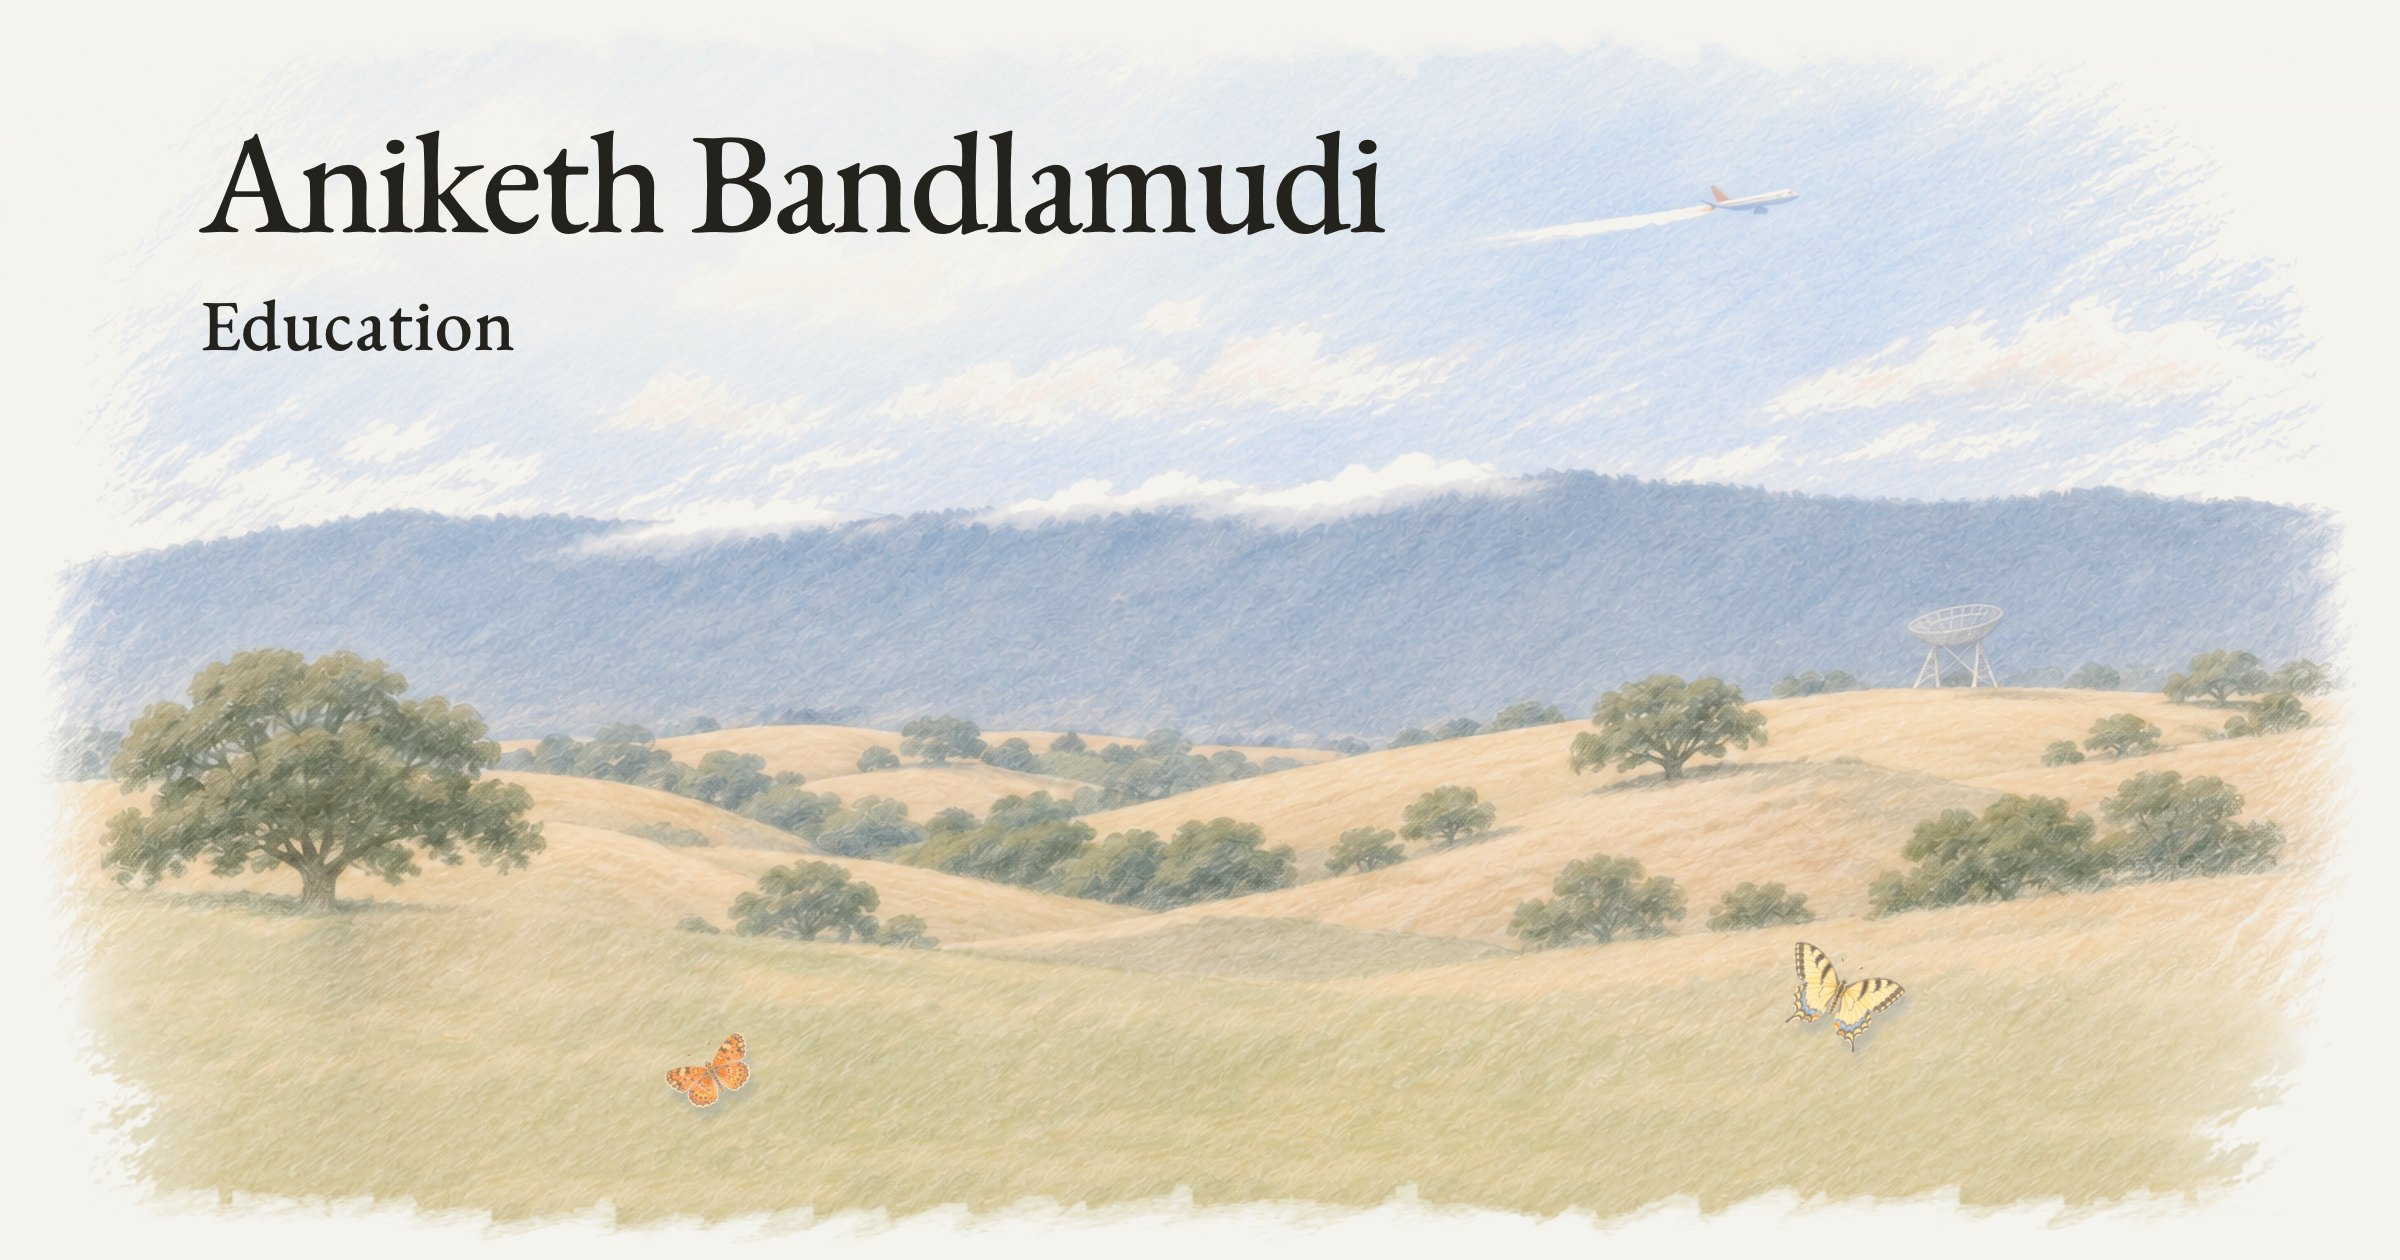
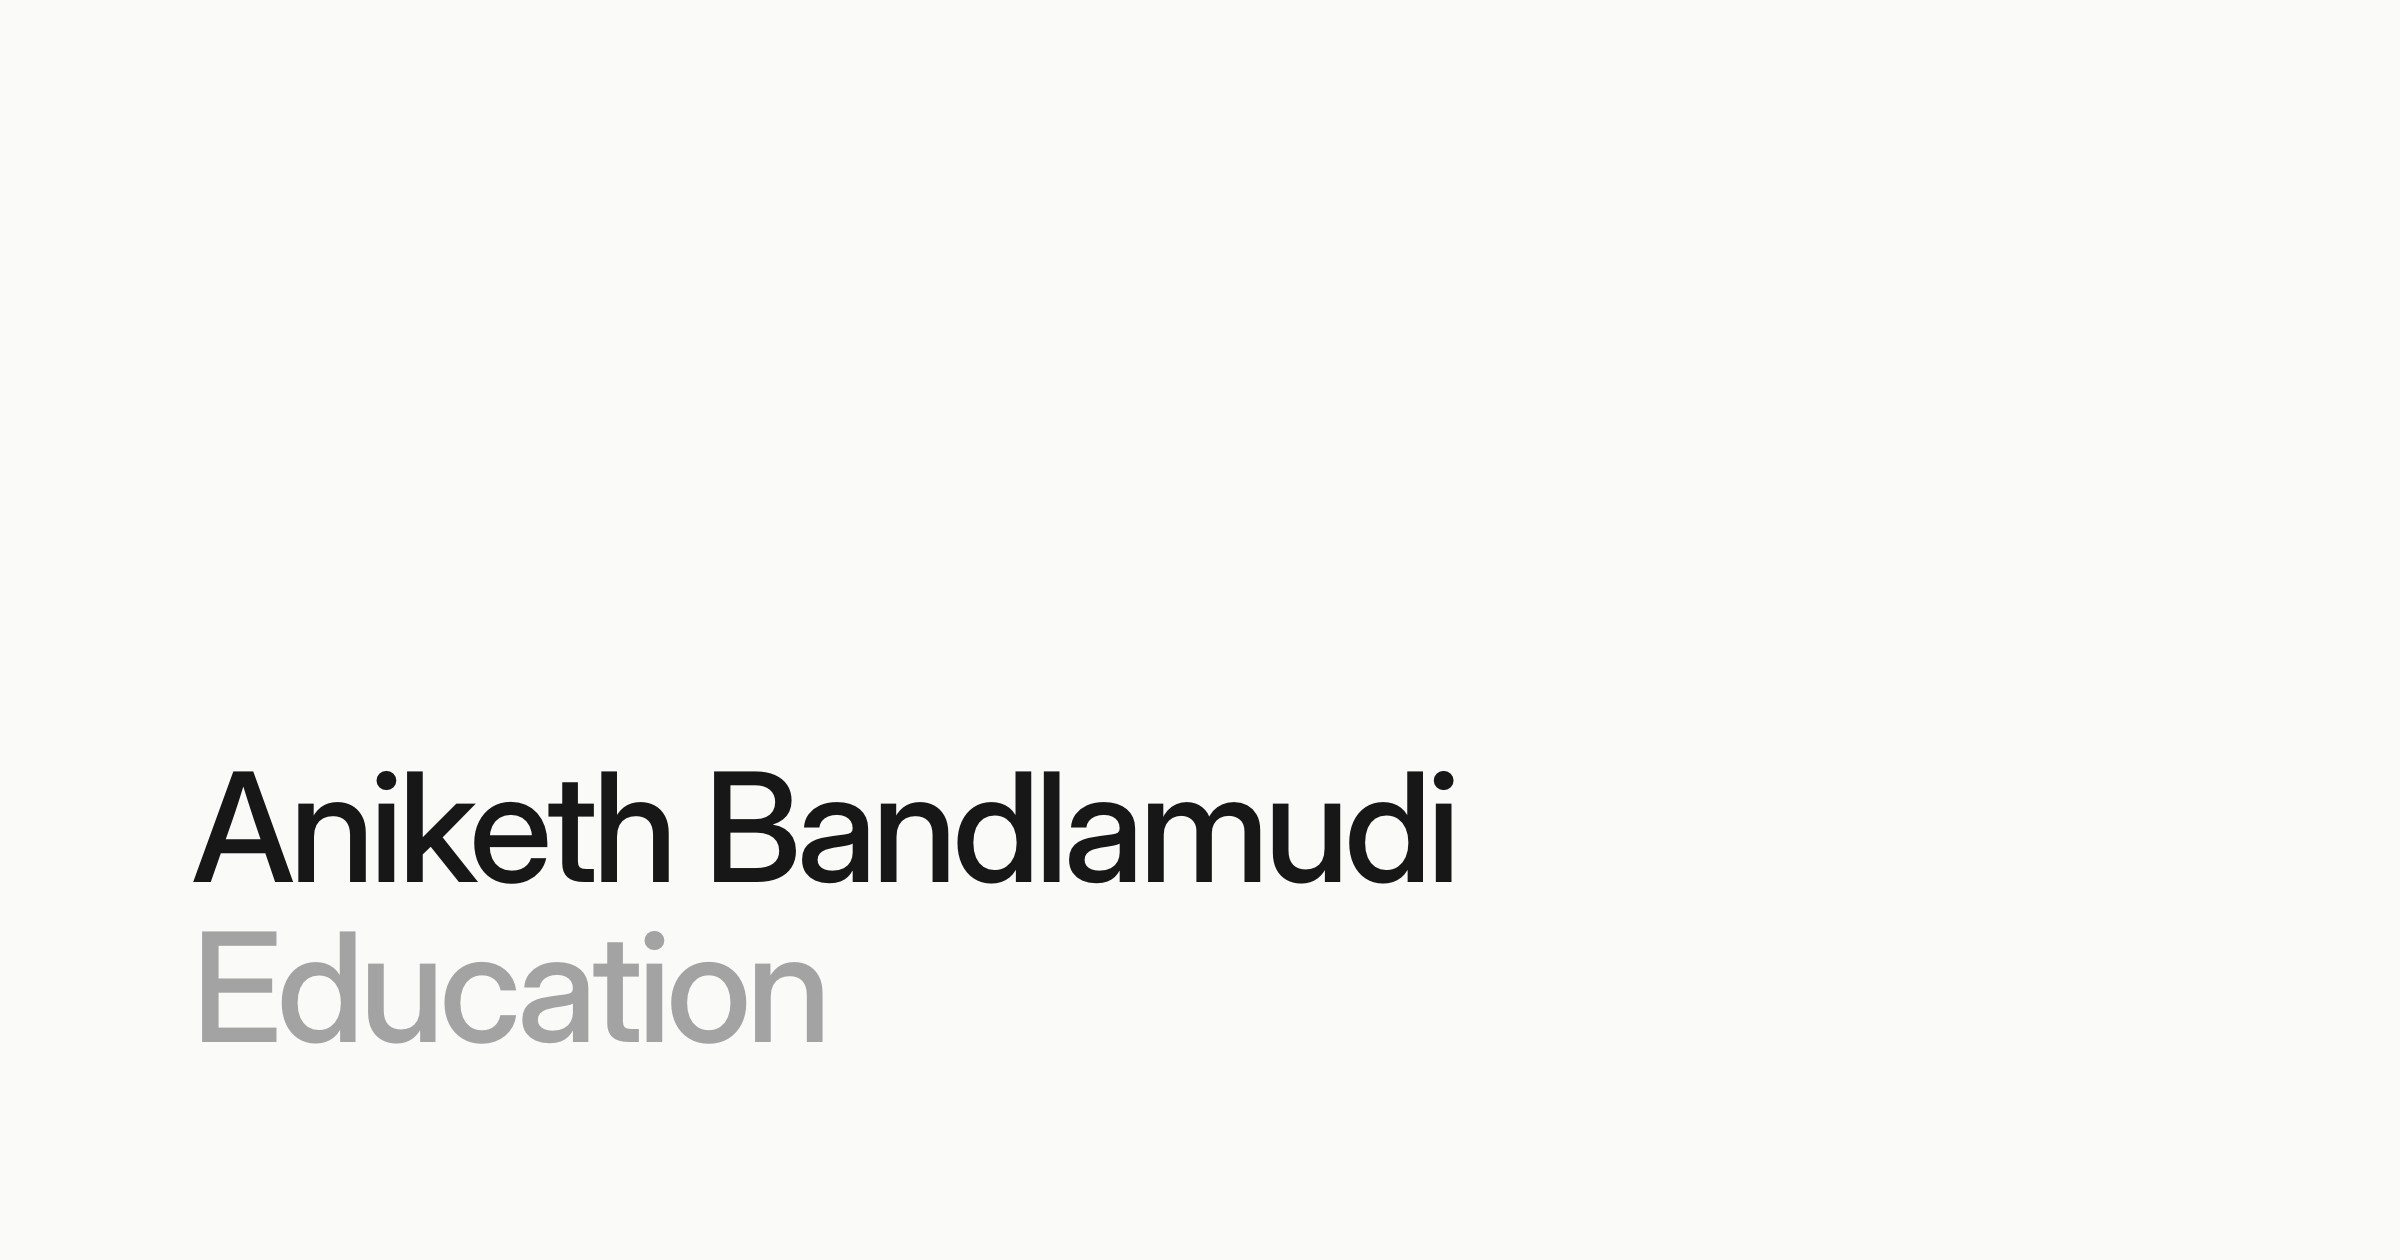
Share cards in the quiet look
The link-preview cards are the site's header in large on its paper:
the name in ink, and on a page's card the page's name under it in
grey, in Inter. No drawing. Their descriptions no longer mention the
pencil drawing, and the card links carry ?v=2 so sites that cached the
old cards fetch the new ones.

diff --git a/index.html b/index.html
@@ -20,16 +20,16 @@
   <meta property="og:title" content="Aniketh Bandlamudi">
   <meta property="og:description" content="Aniketh Bandlamudi is a CS and Applied Math student at the University of Virginia, founder of Pragmatic, the system of record for AI agents, and OCRadar, and maker of the Haze weather app.">
   <meta property="og:url" content="https://aniketh.net/">
-  <meta property="og:image" content="https://aniketh.net/assets/img/og.jpg">
+  <meta property="og:image" content="https://aniketh.net/assets/img/og.jpg?v=2">
   <meta property="og:image:width" content="2400">
   <meta property="og:image:height" content="1260">
-  <meta property="og:image:alt" content="Aniketh Bandlamudi, over a coloured-pencil drawing of golden foothills">
+  <meta property="og:image:alt" content="Aniketh Bandlamudi">
 
   <!-- Twitter Card -->
   <meta name="twitter:card" content="summary_large_image">
   <meta name="twitter:title" content="Aniketh Bandlamudi">
   <meta name="twitter:description" content="Aniketh Bandlamudi is a CS and Applied Math student at the University of Virginia, founder of Pragmatic, the system of record for AI agents, and OCRadar, and maker of the Haze weather app.">
-  <meta name="twitter:image" content="https://aniketh.net/assets/img/og.jpg">
+  <meta name="twitter:image" content="https://aniketh.net/assets/img/og.jpg?v=2">
   <link rel="preload" href="/assets/fonts/lagunita/Lagunita-latin.woff2" as="font" type="font/woff2" crossorigin>
   <link rel="stylesheet" href="/assets/fonts/lagunita/lagunita.css">
   <link rel="stylesheet" href="/assets/css/site.css">

diff --git a/press/index.html b/press/index.html
@@ -14,14 +14,14 @@
   <meta property="og:title" content="Press | Aniketh Bandlamudi">
   <meta property="og:description" content="Press coverage of Aniketh Bandlamudi and OCRadar in WTOP News, The Korea Times, Vision Times, Virginia News Network and FCPS, and recognition of his aviation photography.">
   <meta property="og:url" content="https://aniketh.net/press/">
-  <meta property="og:image" content="https://aniketh.net/assets/img/og/press.jpg">
+  <meta property="og:image" content="https://aniketh.net/assets/img/og/press.jpg?v=2">
   <meta property="og:image:width" content="2400">
   <meta property="og:image:height" content="1260">
-  <meta property="og:image:alt" content="Aniketh Bandlamudi, Press, over a coloured-pencil drawing of golden foothills">
+  <meta property="og:image:alt" content="Aniketh Bandlamudi, Press">
   <meta name="twitter:card" content="summary_large_image">
   <meta name="twitter:title" content="Press | Aniketh Bandlamudi">
   <meta name="twitter:description" content="Press coverage of Aniketh Bandlamudi and OCRadar in WTOP News, The Korea Times, Vision Times, Virginia News Network and FCPS, and recognition of his aviation photography.">
-  <meta name="twitter:image" content="https://aniketh.net/assets/img/og/press.jpg">
+  <meta name="twitter:image" content="https://aniketh.net/assets/img/og/press.jpg?v=2">
   <link rel="preload" href="/assets/fonts/lagunita/Lagunita-latin.woff2" as="font" type="font/woff2" crossorigin>
   <link rel="stylesheet" href="/assets/fonts/lagunita/lagunita.css">
   <link rel="stylesheet" href="/assets/css/site.css">

diff --git a/research/index.html b/research/index.html
@@ -14,10 +14,10 @@
   <meta property="og:title" content="Research | Aniketh Bandlamudi">
   <meta property="og:description" content="Research by Aniketh Bandlamudi: a pre-registered test for memory replay in a whole-brain Drosophila connectome model, provably sound replay, crash recovery, and noninterference for nondeterministic LLM agents, and a convolutional neural network for oral cavity squamous cell carcinoma (OCSCC) detection (arXiv:2510.16235).">
   <meta property="og:url" content="https://aniketh.net/research/">
-  <meta property="og:image" content="https://aniketh.net/assets/img/og/research.jpg">
+  <meta property="og:image" content="https://aniketh.net/assets/img/og/research.jpg?v=2">
   <meta property="og:image:width" content="2400">
   <meta property="og:image:height" content="1260">
-  <meta property="og:image:alt" content="Aniketh Bandlamudi, Research, over a coloured-pencil drawing of golden foothills">
+  <meta property="og:image:alt" content="Aniketh Bandlamudi, Research">
   <meta name="twitter:card" content="summary_large_image">
   <meta name="twitter:title" content="Research | Aniketh Bandlamudi">
   <meta name="twitter:description" content="Research by Aniketh Bandlamudi: a pre-registered test for memory replay in a whole-brain Drosophila connectome model, provably sound replay, crash recovery, and noninterference for nondeterministic LLM agents, and a convolutional neural network for oral cavity squamous cell carcinoma (OCSCC) detection (arXiv:2510.16235).">

diff --git a/music/index.html b/music/index.html
@@ -14,14 +14,14 @@
   <meta property="og:title" content="Music | Aniketh Bandlamudi">
   <meta property="og:description" content="What Aniketh Bandlamudi is listening to, live from Spotify.">
   <meta property="og:url" content="https://aniketh.net/music/">
-  <meta property="og:image" content="https://aniketh.net/assets/img/og/music.jpg">
+  <meta property="og:image" content="https://aniketh.net/assets/img/og/music.jpg?v=2">
   <meta property="og:image:width" content="2400">
   <meta property="og:image:height" content="1260">
-  <meta property="og:image:alt" content="Aniketh Bandlamudi, Music, over a coloured-pencil drawing of golden foothills">
+  <meta property="og:image:alt" content="Aniketh Bandlamudi, Music">
   <meta name="twitter:card" content="summary_large_image">
   <meta name="twitter:title" content="Music | Aniketh Bandlamudi">
   <meta name="twitter:description" content="What Aniketh Bandlamudi is listening to, live from Spotify.">
-  <meta name="twitter:image" content="https://aniketh.net/assets/img/og/music.jpg">
+  <meta name="twitter:image" content="https://aniketh.net/assets/img/og/music.jpg?v=2">
   <link rel="icon" href="/favicon.ico" sizes="any">
   <link rel="preload" href="/assets/fonts/lagunita/Lagunita-latin.woff2" as="font" type="font/woff2" crossorigin>
   <link rel="stylesheet" href="/assets/fonts/lagunita/lagunita.css">

diff --git a/fragrance/index.html b/fragrance/index.html
@@ -15,14 +15,14 @@
   <meta property="og:title" content="Fragrance | Aniketh Bandlamudi">
   <meta property="og:description" content="The fragrances Aniketh Bandlamudi wears.">
   <meta property="og:url" content="https://aniketh.net/fragrance/">
-  <meta property="og:image" content="https://aniketh.net/assets/img/og.jpg">
+  <meta property="og:image" content="https://aniketh.net/assets/img/og.jpg?v=2">
   <meta property="og:image:width" content="2400">
   <meta property="og:image:height" content="1260">
-  <meta property="og:image:alt" content="Aniketh Bandlamudi, over a coloured-pencil drawing of golden foothills">
+  <meta property="og:image:alt" content="Aniketh Bandlamudi">
   <meta name="twitter:card" content="summary_large_image">
   <meta name="twitter:title" content="Fragrance | Aniketh Bandlamudi">
   <meta name="twitter:description" content="The fragrances Aniketh Bandlamudi wears.">
-  <meta name="twitter:image" content="https://aniketh.net/assets/img/og.jpg">
+  <meta name="twitter:image" content="https://aniketh.net/assets/img/og.jpg?v=2">
   <link rel="icon" href="/favicon.ico" sizes="any">
   <link rel="preload" href="/assets/fonts/lagunita/Lagunita-latin.woff2" as="font" type="font/woff2" crossorigin>
   <link rel="stylesheet" href="/assets/fonts/lagunita/lagunita.css">

diff --git a/education/index.html b/education/index.html
@@ -14,10 +14,10 @@
   <meta property="og:title" content="Education | Aniketh Bandlamudi">
   <meta property="og:description" content="Aniketh Bandlamudi studies Computer Science and Applied Mathematics at the University of Virginia (B.S. expected May 2030). He attended Y Combinator AI Startup School and Oakton High School.">
   <meta property="og:url" content="https://aniketh.net/education/">
-  <meta property="og:image" content="https://aniketh.net/assets/img/og/education.jpg">
+  <meta property="og:image" content="https://aniketh.net/assets/img/og/education.jpg?v=2">
   <meta property="og:image:width" content="2400">
   <meta property="og:image:height" content="1260">
-  <meta property="og:image:alt" content="Aniketh Bandlamudi, Education, over a coloured-pencil drawing of golden foothills">
+  <meta property="og:image:alt" content="Aniketh Bandlamudi, Education">
   <meta name="twitter:card" content="summary_large_image">
   <meta name="twitter:title" content="Education | Aniketh Bandlamudi">
   <meta name="twitter:description" content="Aniketh Bandlamudi studies Computer Science and Applied Mathematics at the University of Virginia (B.S. expected May 2030). He attended Y Combinator AI Startup School and Oakton High School.">

diff --git a/resume/index.html b/resume/index.html
@@ -14,10 +14,10 @@
   <meta property="og:title" content="Resume | Aniketh Bandlamudi">
   <meta property="og:description" content="Resume of Aniketh Bandlamudi: Computer Science and Applied Mathematics at the University of Virginia, founder of Pragmatic Research and OCRadar, and engineering intern at Alarm.com.">
   <meta property="og:url" content="https://aniketh.net/resume/">
-  <meta property="og:image" content="https://aniketh.net/assets/img/og/resume.jpg">
+  <meta property="og:image" content="https://aniketh.net/assets/img/og/resume.jpg?v=2">
   <meta property="og:image:width" content="2400">
   <meta property="og:image:height" content="1260">
-  <meta property="og:image:alt" content="Aniketh Bandlamudi, Resume, over a coloured-pencil drawing of golden foothills">
+  <meta property="og:image:alt" content="Aniketh Bandlamudi, Resume">
   <meta name="twitter:card" content="summary_large_image">
   <meta name="twitter:title" content="Resume | Aniketh Bandlamudi">
   <meta name="twitter:description" content="Resume of Aniketh Bandlamudi: Computer Science and Applied Mathematics at the University of Virginia, founder of Pragmatic Research and OCRadar, and engineering intern at Alarm.com.">

diff --git a/projects/index.html b/projects/index.html
@@ -14,10 +14,10 @@
   <meta property="og:title" content="Projects | Aniketh Bandlamudi">
   <meta property="og:description" content="Projects by Aniketh Bandlamudi, including a Rust runtime for AI agents, Genzo, Meridian, Haze, Lagunita, Hypnagogia, Aperta, Sentry, Graphite, Splatify and IllumiSign.">
   <meta property="og:url" content="https://aniketh.net/projects/">
-  <meta property="og:image" content="https://aniketh.net/assets/img/og/projects.jpg">
+  <meta property="og:image" content="https://aniketh.net/assets/img/og/projects.jpg?v=2">
   <meta property="og:image:width" content="2400">
   <meta property="og:image:height" content="1260">
-  <meta property="og:image:alt" content="Aniketh Bandlamudi, Projects, over a coloured-pencil drawing of golden foothills">
+  <meta property="og:image:alt" content="Aniketh Bandlamudi, Projects">
   <meta name="twitter:card" content="summary_large_image">
   <meta name="twitter:title" content="Projects | Aniketh Bandlamudi">
   <meta name="twitter:description" content="Projects by Aniketh Bandlamudi, including a Rust runtime for AI agents, Genzo, Meridian, Haze, Lagunita, Hypnagogia, Aperta, Sentry, Graphite, Splatify and IllumiSign.">

diff --git a/lagunita/index.html b/lagunita/index.html
@@ -12,10 +12,10 @@
   <meta property="og:title" content="Lagunita | Aniketh Bandlamudi">
   <meta property="og:description" content="A free variable serif: a Jannon-style Garamond with flared stems and chisel-cut terminals, in roman and italic, weights 300 to 800 and optical sizes 10 to 72.">
   <meta property="og:url" content="https://aniketh.net/lagunita/">
-  <meta property="og:image" content="https://aniketh.net/assets/img/og.jpg">
+  <meta property="og:image" content="https://aniketh.net/assets/img/og.jpg?v=2">
   <meta property="og:image:width" content="2400">
   <meta property="og:image:height" content="1260">
-  <meta property="og:image:alt" content="Aniketh Bandlamudi, over a coloured-pencil drawing of golden foothills">
+  <meta property="og:image:alt" content="Aniketh Bandlamudi">
   <meta name="twitter:card" content="summary_large_image">
   <meta name="twitter:title" content="Lagunita | Aniketh Bandlamudi">
   <meta name="twitter:description" content="A free variable serif: a Jannon-style Garamond with flared stems and chisel-cut terminals, in roman and italic, weights 300 to 800 and optical sizes 10 to 72.">

diff --git a/work/index.html b/work/index.html
@@ -14,10 +14,10 @@
   <meta property="og:title" content="Work | Aniketh Bandlamudi">
   <meta property="og:description" content="Aniketh Bandlamudi&#x27;s work: founder of Pragmatic Research, founder of OCRadar, engineering intern at Alarm.com, and software lead at Oakton Robotics.">
   <meta property="og:url" content="https://aniketh.net/work/">
-  <meta property="og:image" content="https://aniketh.net/assets/img/og/work.jpg">
+  <meta property="og:image" content="https://aniketh.net/assets/img/og/work.jpg?v=2">
   <meta property="og:image:width" content="2400">
   <meta property="og:image:height" content="1260">
-  <meta property="og:image:alt" content="Aniketh Bandlamudi, Work, over a coloured-pencil drawing of golden foothills">
+  <meta property="og:image:alt" content="Aniketh Bandlamudi, Work">
   <meta name="twitter:card" content="summary_large_image">
   <meta name="twitter:title" content="Work | Aniketh Bandlamudi">
   <meta name="twitter:description" content="Aniketh Bandlamudi&#x27;s work: founder of Pragmatic Research, founder of OCRadar, engineering intern at Alarm.com, and software lead at Oakton Robotics.">

diff --git a/writing/index.html b/writing/index.html
@@ -14,10 +14,10 @@
   <meta property="og:title" content="Writing | Aniketh Bandlamudi">
   <meta property="og:description" content="Writing by Aniketh Bandlamudi: What You Owe, an essay on purpose, public benefit and building OCRadar, also on Substack.">
   <meta property="og:url" content="https://aniketh.net/writing/">
-  <meta property="og:image" content="https://aniketh.net/assets/img/og/writing.jpg">
+  <meta property="og:image" content="https://aniketh.net/assets/img/og/writing.jpg?v=2">
   <meta property="og:image:width" content="2400">
   <meta property="og:image:height" content="1260">
-  <meta property="og:image:alt" content="Aniketh Bandlamudi, Writing, over a coloured-pencil drawing of golden foothills">
+  <meta property="og:image:alt" content="Aniketh Bandlamudi, Writing">
   <meta name="twitter:card" content="summary_large_image">
   <meta name="twitter:title" content="Writing | Aniketh Bandlamudi">
   <meta name="twitter:description" content="Writing by Aniketh Bandlamudi: What You Owe, an essay on purpose, public benefit and building OCRadar, also on Substack.">

diff --git a/contact/index.html b/contact/index.html
@@ -14,10 +14,10 @@
   <meta property="og:title" content="Contact | Aniketh Bandlamudi">
   <meta property="og:description" content="How to contact Aniketh Bandlamudi: email me@aniketh.net, or find him on LinkedIn, GitHub, X, Instagram and Substack.">
   <meta property="og:url" content="https://aniketh.net/contact/">
-  <meta property="og:image" content="https://aniketh.net/assets/img/og/contact.jpg">
+  <meta property="og:image" content="https://aniketh.net/assets/img/og/contact.jpg?v=2">
   <meta property="og:image:width" content="2400">
   <meta property="og:image:height" content="1260">
-  <meta property="og:image:alt" content="Aniketh Bandlamudi, Contact, over a coloured-pencil drawing of golden foothills">
+  <meta property="og:image:alt" content="Aniketh Bandlamudi, Contact">
   <meta name="twitter:card" content="summary_large_image">
   <meta name="twitter:title" content="Contact | Aniketh Bandlamudi">
   <meta name="twitter:description" content="How to contact Aniketh Bandlamudi: email me@aniketh.net, or find him on LinkedIn, GitHub, X, Instagram and Substack.">
